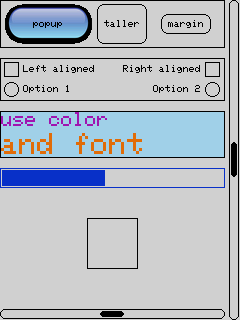
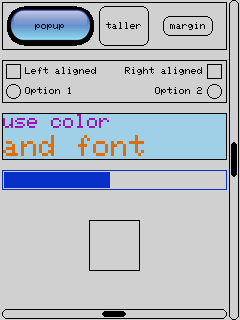
Demo: even 2px gap around the main panel; slower README GIF
Copilot-Session: 866c6d04-5314-4388-a053-90e3f3c144d8

diff --git a/examples/Demo/DemoScreens.h b/examples/Demo/DemoScreens.h
@@ -168,10 +168,13 @@ namespace MainScreen {
 
     main.spacing = 10;
     main.orientation = B::vertical;
+    main.x = 2;  // 2px gap on every side, scrollbars included
+    main.y = 2;
     main.width = screenWidth - theme.scrollbarSize - 5;
     main.height = screenHeight - theme.scrollbarSize - 5;
     main.horizontalAlignment = B::center;
 
+    hscrollbar.x = main.x;
     hscrollbar.width = main.width;
     hscrollbar.y = screenHeight - theme.scrollbarSize - 1;
     hscrollbar.minimum = -90;
